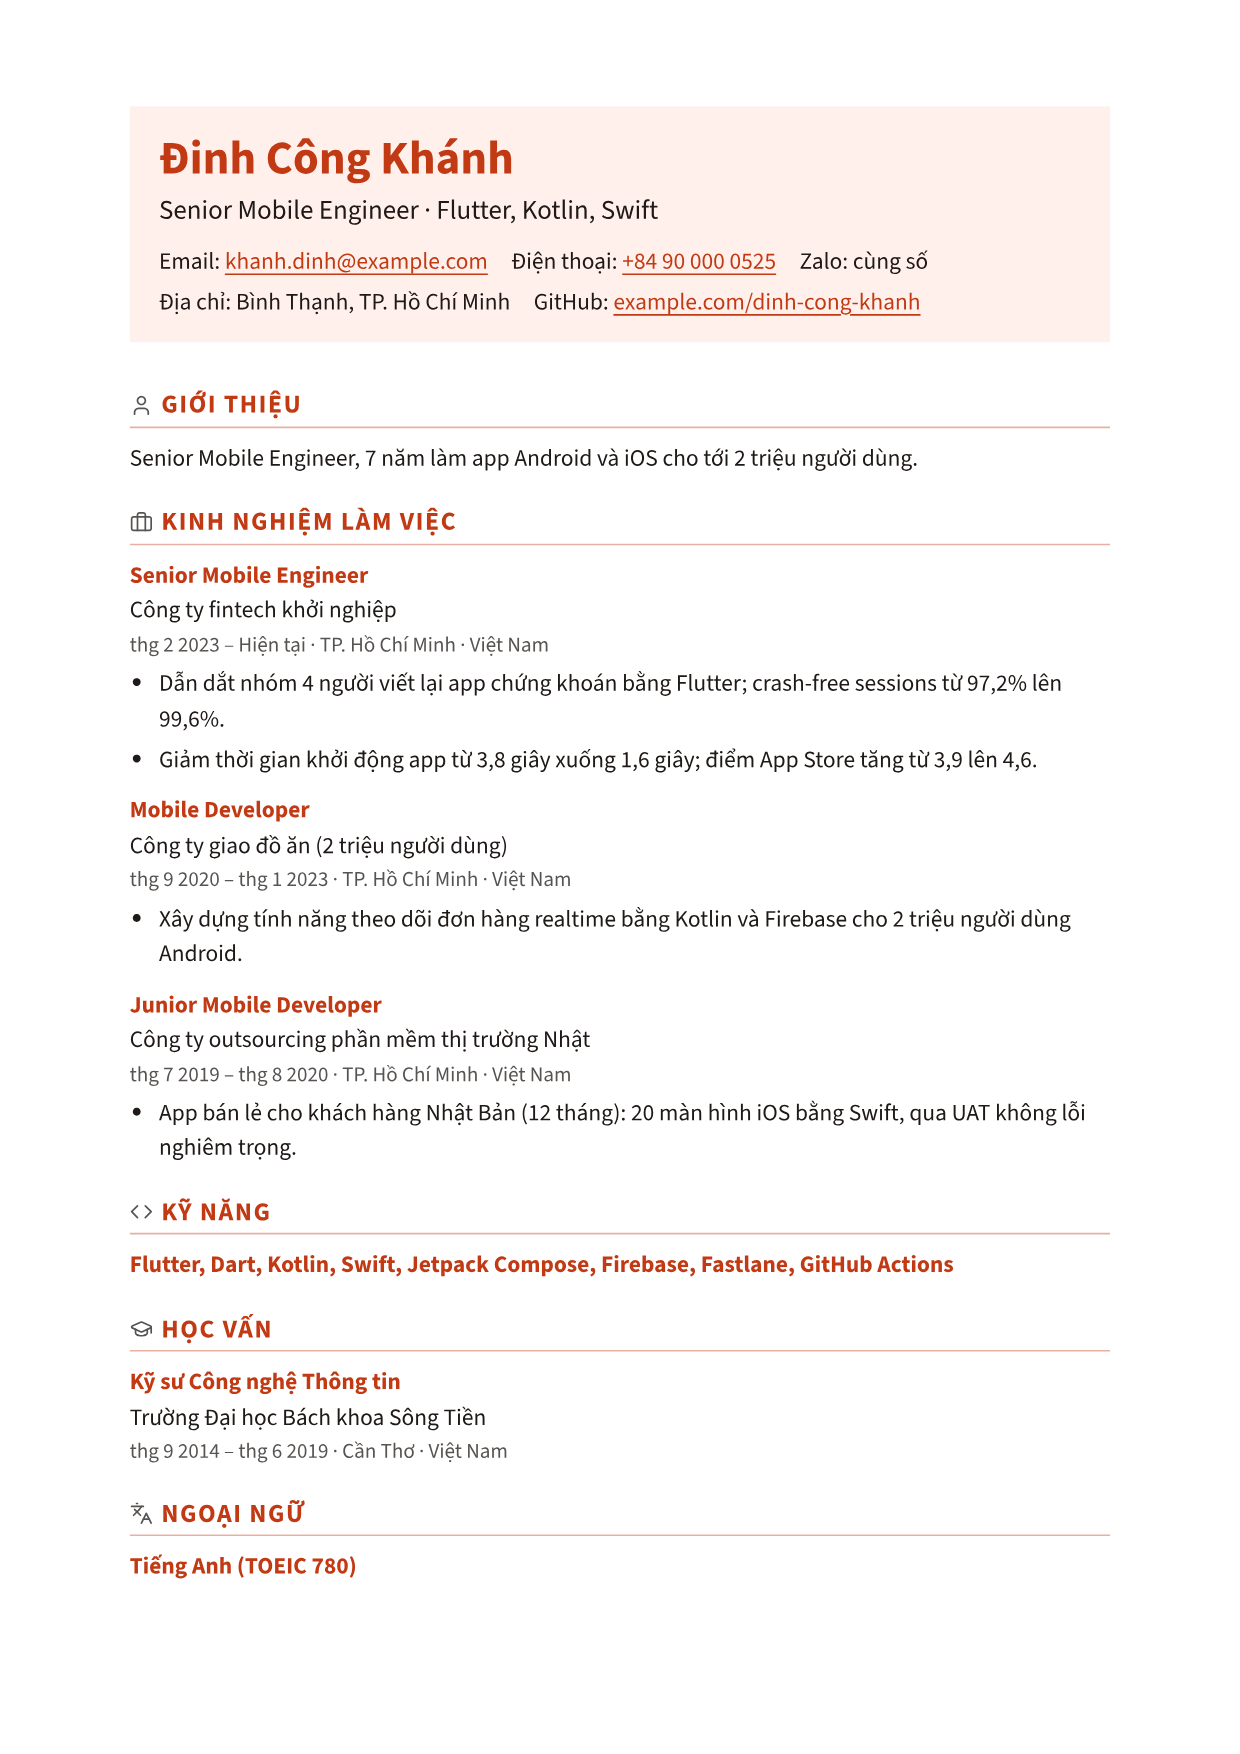
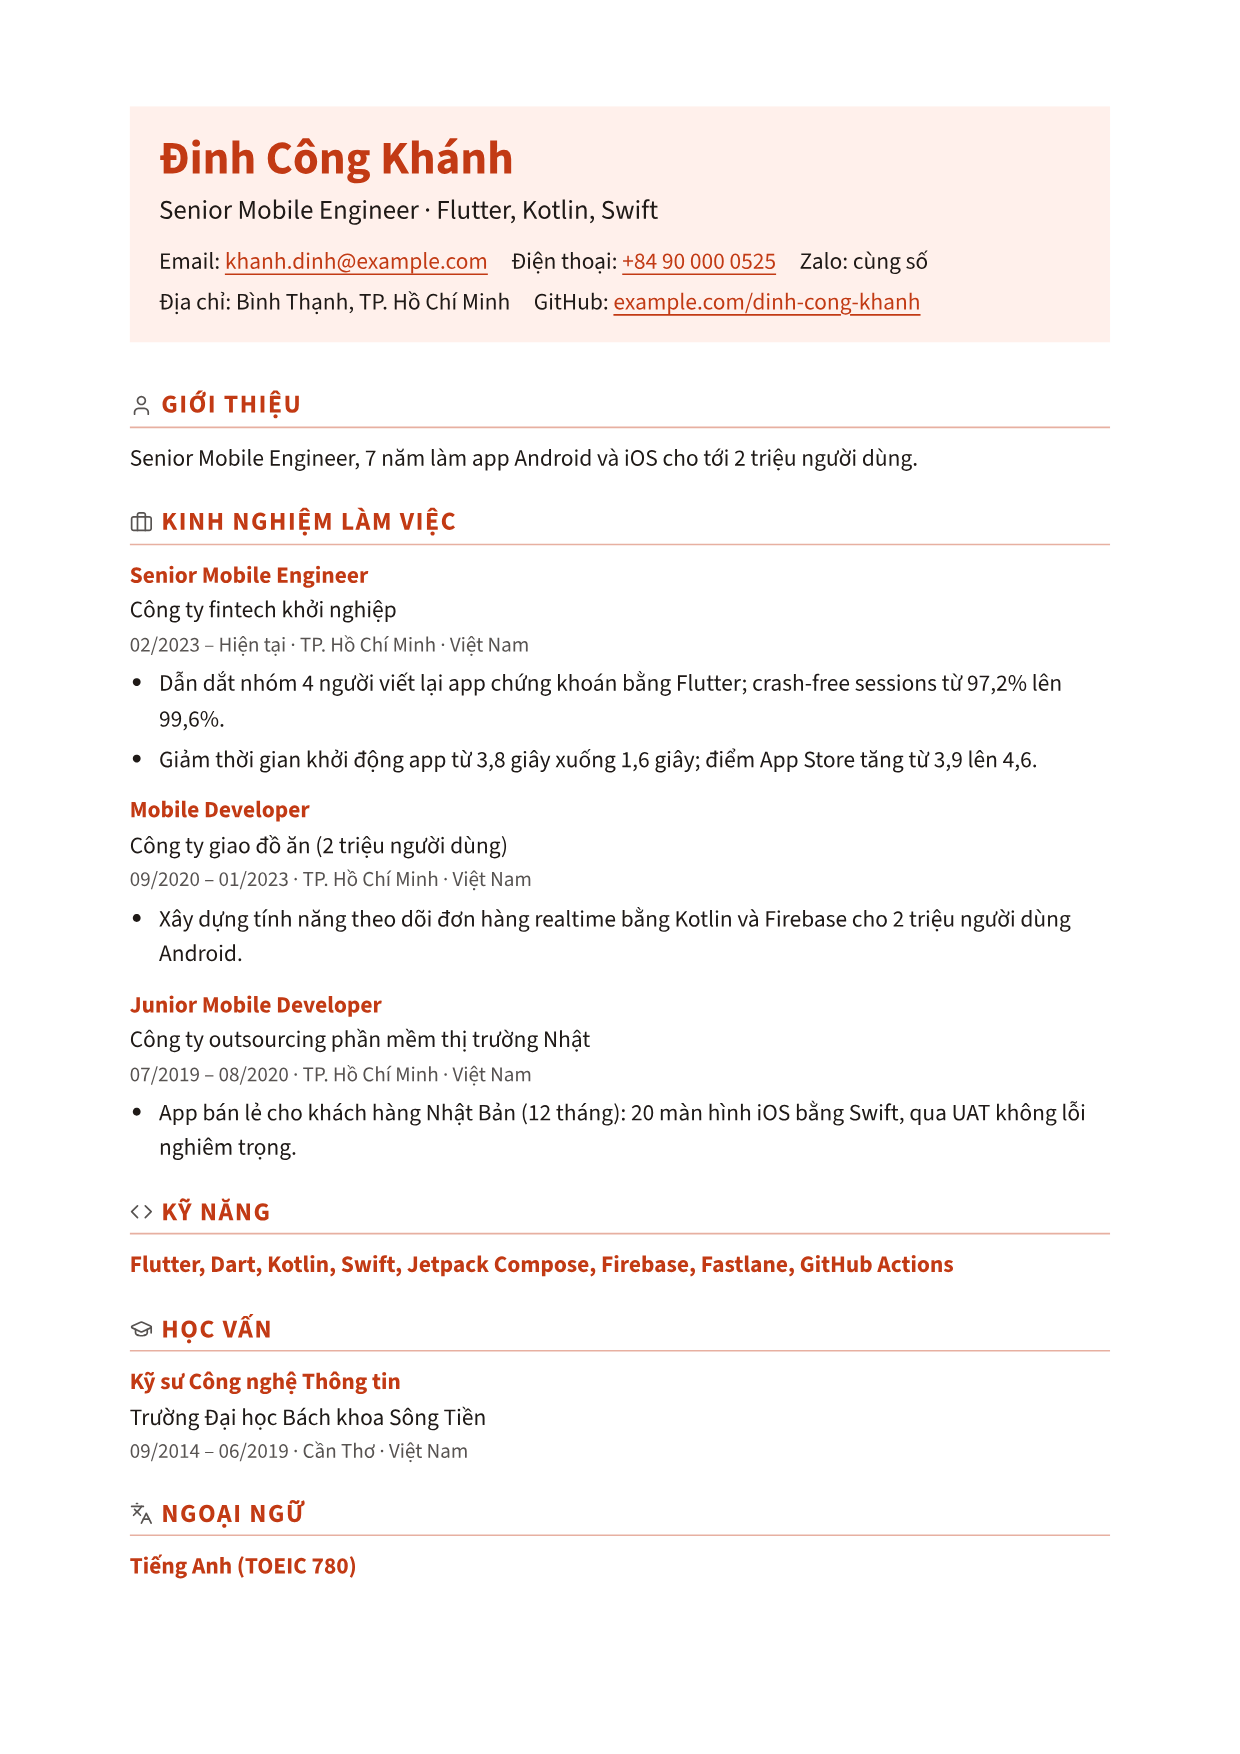
fix(templates): match each gallery sample's date format to its language
English samples show Mon YYYY and Vietnamese samples MM/YYYY, as the
Vietnamese tech resume guide asks. A sample may differ from its
template only in the date format, which a schema test pins by language;
the render harness no longer resets a sample's settings to the preset,
so the stored page images show the sample's own dates.

diff --git a/packages/schema/test/samples.test.ts b/packages/schema/test/samples.test.ts
@@ -70,13 +70,36 @@ describe("sample files", () => {
     documents
       .filter(({ filler }) => !filler)
       .map(({ name, document }) => [name, document] as const),
-  )("%s keeps its template's customization", (name, document) => {
-    const template = TEMPLATES.find(({ id }) => name.startsWith(`${id}.`))!;
-    const { layout, ...rest } = document.customization;
-    const { layout: presetLayout, ...presetRest } = template.customization;
-    expect(rest).toEqual(presetRest);
-    expect(layout.columns).toBe(presetLayout.columns);
-    expect(layout.surfaceTarget).toBe(presetLayout.surfaceTarget);
+  )(
+    "%s keeps its template's customization, apart from date format",
+    (name, document) => {
+      const template = TEMPLATES.find(({ id }) => name.startsWith(`${id}.`))!;
+      const { layout, dateFormat: _dateFormat, ...rest }
+        = document.customization;
+      const {
+        layout: presetLayout,
+        dateFormat: _presetDateFormat,
+        ...presetRest
+      } = template.customization;
+      expect(rest).toEqual(presetRest);
+      expect(layout.columns).toBe(presetLayout.columns);
+      expect(layout.surfaceTarget).toBe(presetLayout.surfaceTarget);
+    },
+  );
+
+  // Vietnamese and English resumes read dates differently (docs/design/
+  // vietnam-tech-resumes.md, Dates), so a sample may override its template's
+  // date format for this reason alone; the test above already keeps every
+  // other setting exact.
+  it.each(
+    documents
+      .filter(({ filler }) => !filler)
+      .map(({ name, document }) => [name, document] as const),
+  )("%s sets a date format that matches its language", (name, document) => {
+    const lng = name.endsWith(".vi.json") ? "vi" : "en";
+    expect(document.customization.dateFormat).toBe(
+      lng === "vi" ? "MM/YYYY" : "Mon YYYY",
+    );
   });
 
   it.each(documents.map(({ name, document }) => [name, document] as const))(

diff --git a/apps/web/app/pages/_harness/render.vue b/apps/web/app/pages/_harness/render.vue
@@ -170,16 +170,23 @@ if (isCorpus) {
   }
 
   const resolvedDocument = resumeDocument ?? badQuery();
-  // The fixture owner already prints on the preset's paper; a template switch
-  // keeps the owner's page format.
-  resolvedDocument.customization = applyTemplate(
-    {
-      ...resolvedDocument.customization,
-      pageFormat: template.customization.pageFormat,
-    },
-    template,
-    resolvedDocument.content,
-  );
+  // A gallery sample already wears its own template, settings and all
+  // (documents.ts `galleryDocument`); applying the template again here would
+  // reset the one setting a sample may override, its date format
+  // (docs/design/vietnam-tech-resumes.md, Dates). Filler and the full/vn-full
+  // fixtures have no settings of their own, so they still take the preset.
+  if (!fixture.startsWith('sample-')) {
+    // The fixture owner already prints on the preset's paper; a template
+    // switch keeps the owner's page format.
+    resolvedDocument.customization = applyTemplate(
+      {
+        ...resolvedDocument.customization,
+        pageFormat: template.customization.pageFormat,
+      },
+      template,
+      resolvedDocument.content,
+    );
+  }
   // Every preset prints on A4 (colors.md §4), so a screenshot cell that
   // needs Letter coverage asks for it explicitly, after the template applies.
   const requestedPaper = singleton('paper');

diff --git a/apps/web/test/renderer/samples.render.test.ts b/apps/web/test/renderer/samples.render.test.ts
@@ -37,14 +37,23 @@ const template = (id: string) => TEMPLATES.find((preset) => preset.id === id)!;
 
 describe('gallery samples', () => {
   it.each(SAMPLES.map(({ templateId, lng }) => [templateId, lng] as const))(
-    '%s (%s) is its template applied to its content',
+    '%s (%s) is its template applied to its content, apart from date format',
     async (templateId, lng) => {
       const sample = (await loadSample(templateId, lng))!;
-      expect(applyTemplate(
+      const preset = template(templateId);
+      const applied = applyTemplate(
         sample.customization,
-        template(templateId),
+        preset,
         sample.content,
-      )).toEqual(sample.customization);
+      );
+      const { dateFormat: appliedDateFormat, ...appliedRest } = applied;
+      const { dateFormat: _sampleDateFormat, ...sampleRest }
+        = sample.customization;
+      expect(appliedRest).toEqual(sampleRest);
+      // A template switch always sets its own date format (formatDate.ts,
+      // applyTemplate.ts); a sample keeps its language's format only until
+      // its reader picks a different template.
+      expect(appliedDateFormat).toBe(preset.customization.dateFormat);
     },
   );
 
